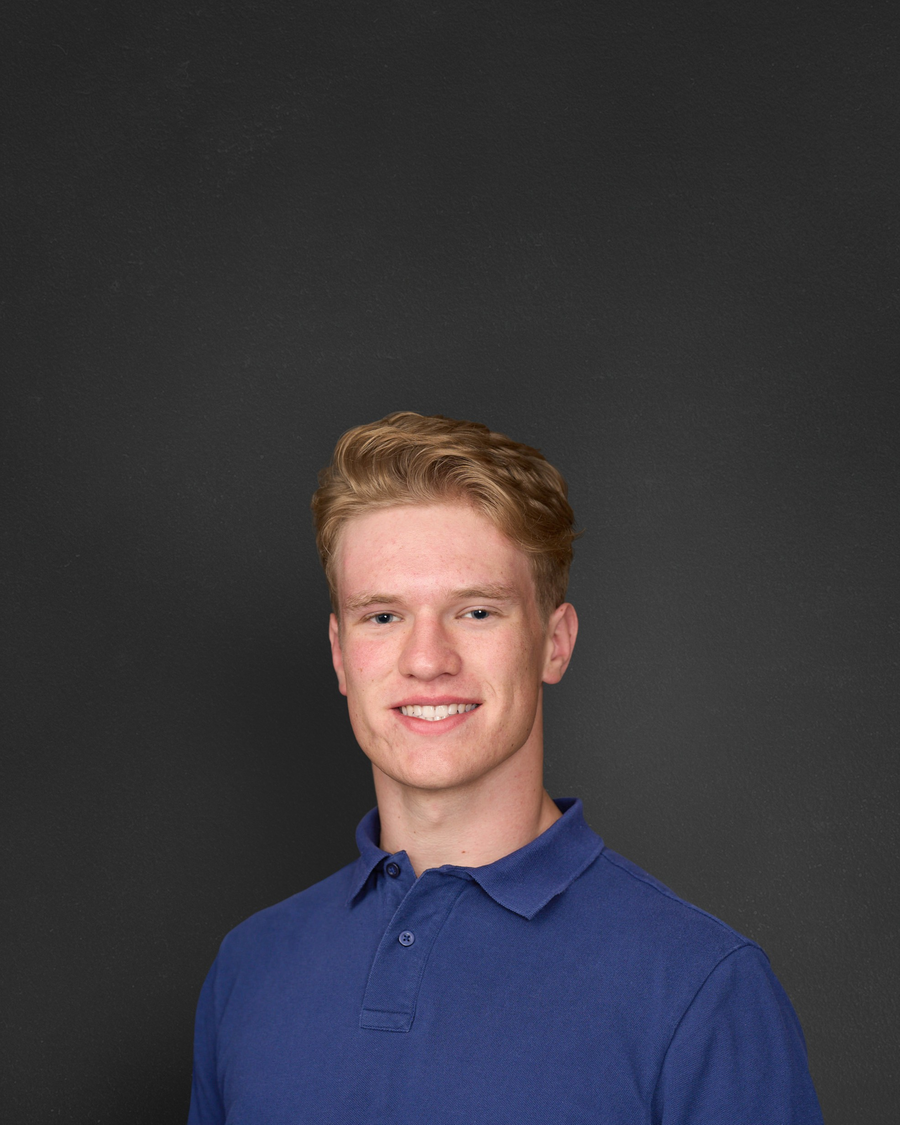
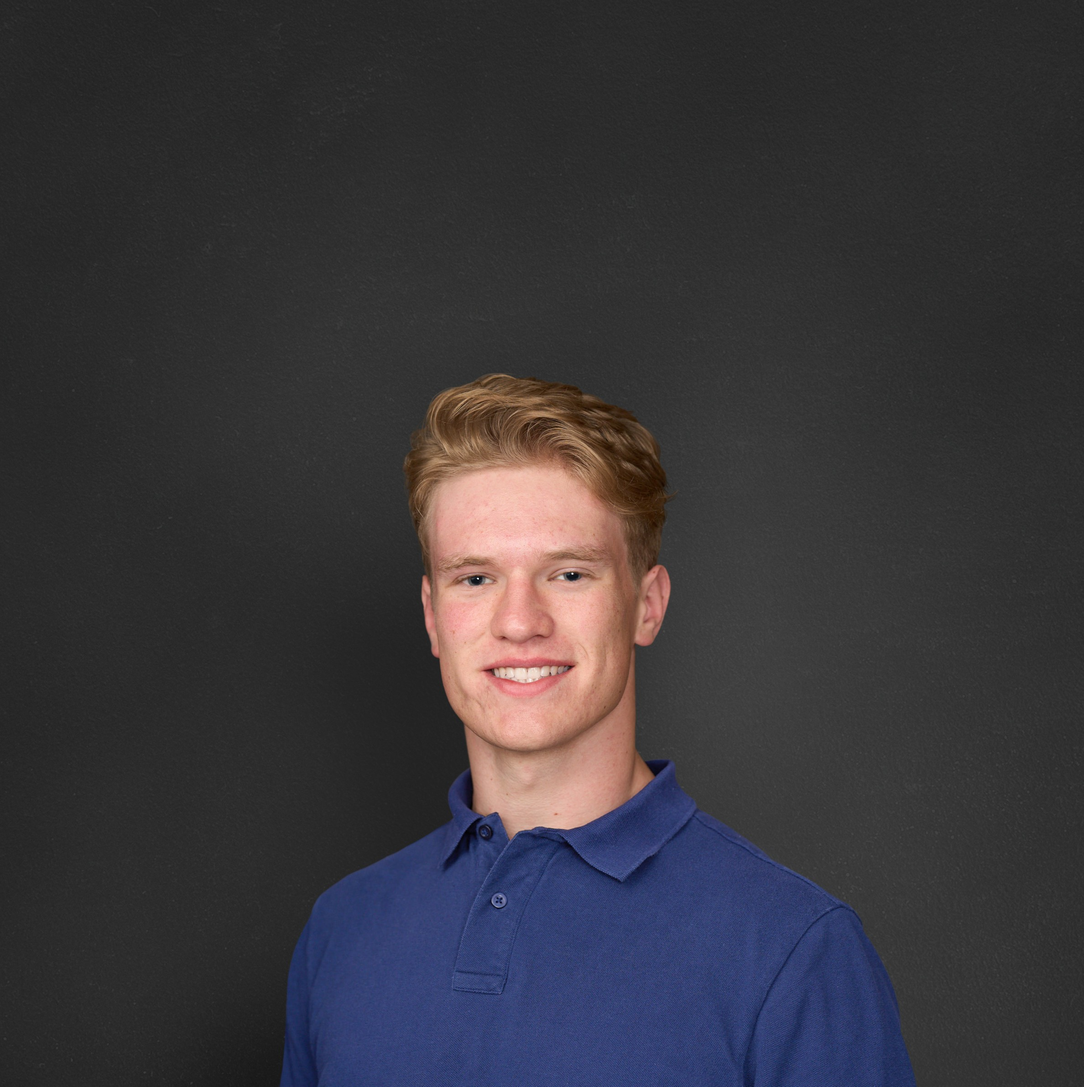
updated image again

diff --git a/index.html b/index.html
@@ -12,8 +12,8 @@
 <body>
     <div id="divTop" class="d-flex flex-column">
         <div id="divTopBlock" class="d-flex flex-column flex-md-row">
-            <div id="divImgContainer" class="d-flex flex-column align-items-end col-12 col-md-5">
-                <img id="imgHeadshot" src="assets/me.jpg" alt="Headshot">
+            <div id="divImgContainer" class="d-flex align-items-end col-12 col-md-5">
+                <img id="imgHeadshot" src="assets/me3.jpg" alt="Headshot">
             </div>
             <div class="col-12 col-md-7 p-5">
                 <h4 class="hoefler-header">Highlights</h4>

diff --git a/style.css b/style.css
@@ -47,7 +47,6 @@ button {
 #imgHeadshot {
     border: 1px solid var(--grey-2);
     width: 100%;
-    height: 100%;
     object-fit: cover;
 }
 #divTitleBarContainer {
